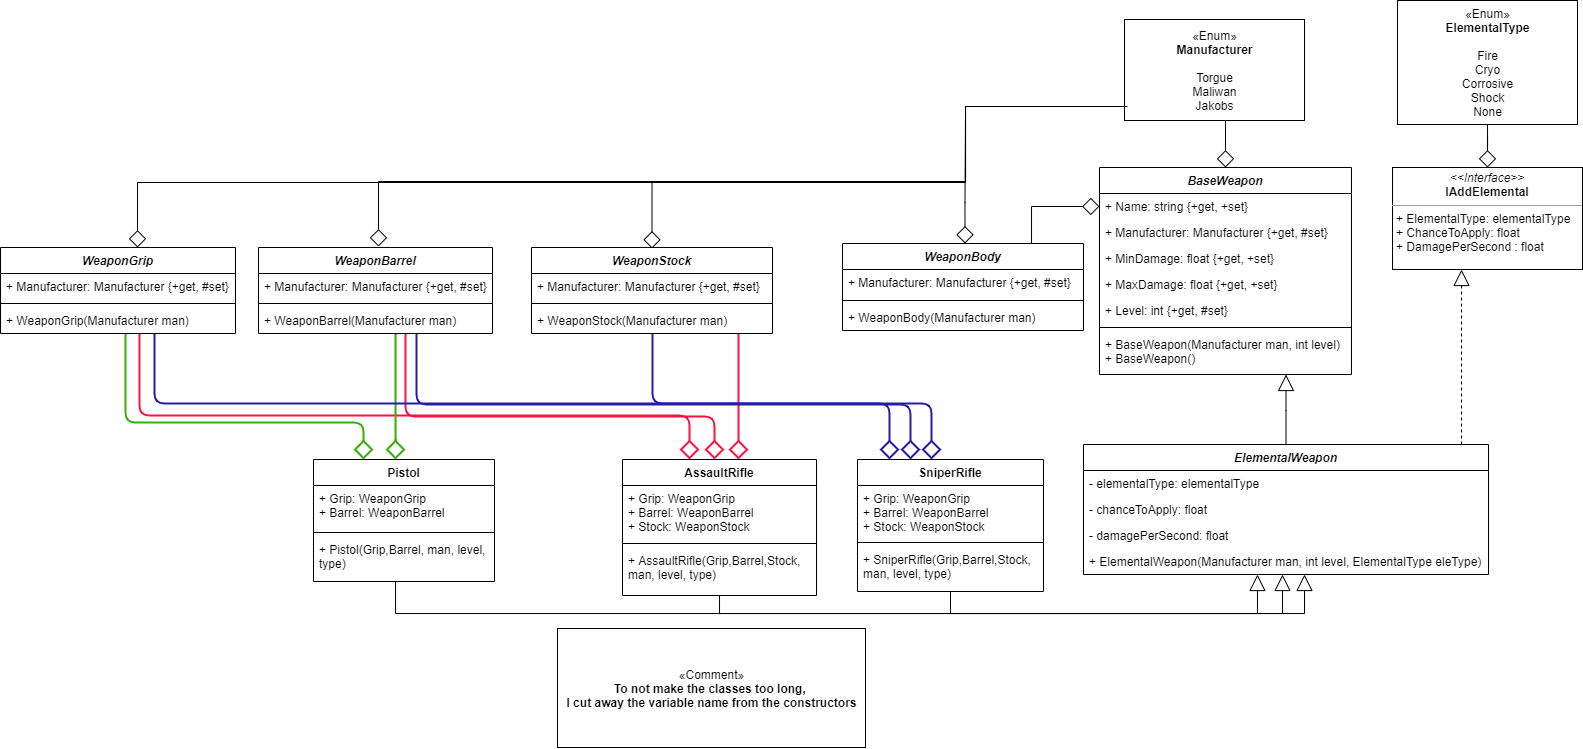
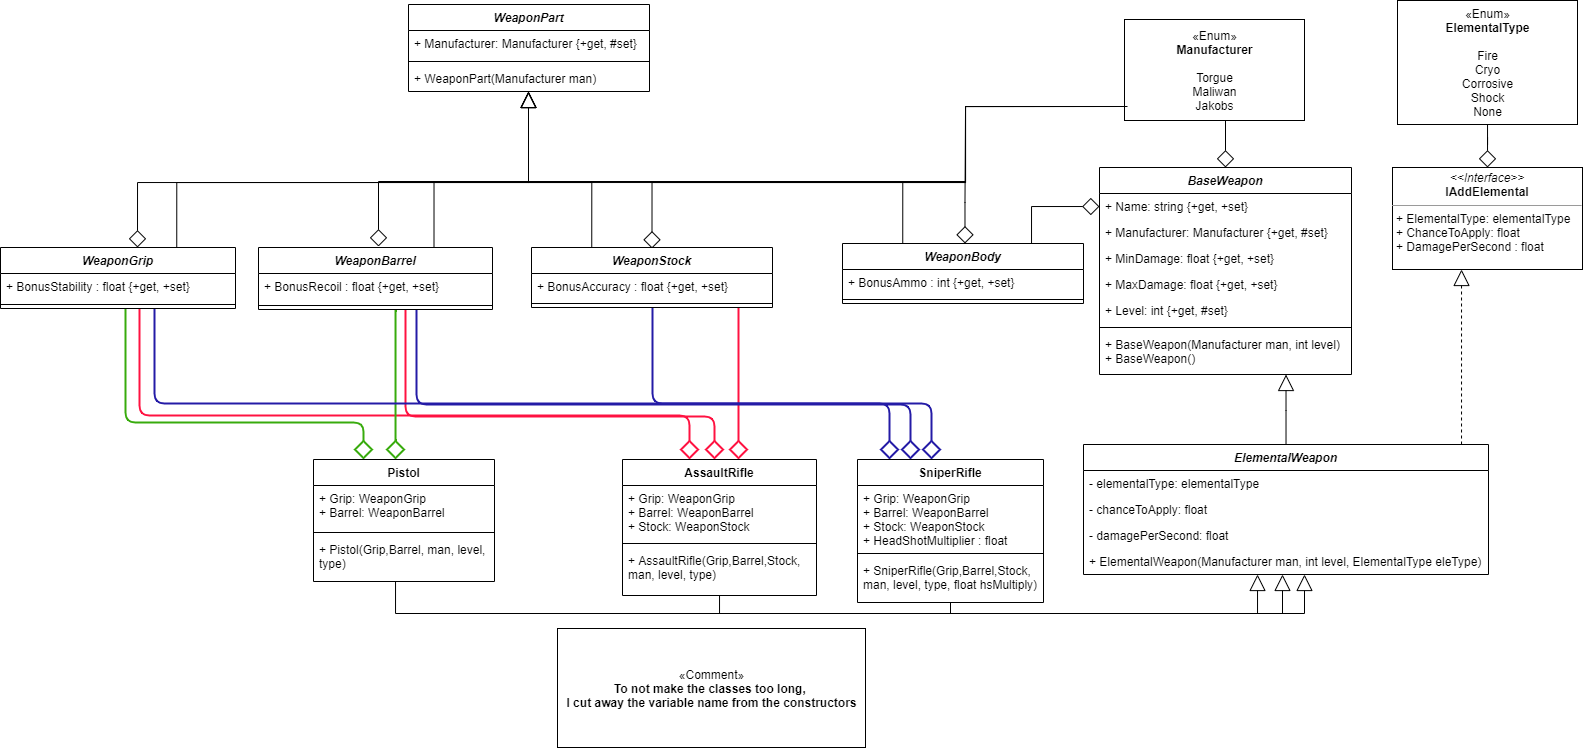
Fixed models being the same person

diff --git a/H3_WrittenReport_Example/WeaponManager.cs b/H3_WrittenReport_Example/WeaponManager.cs
@@ -13,21 +13,23 @@ namespace H3_WrittenReport_Example
         {
             using (WeaponContext context = new WeaponContext())
             {
-                foreach (BaseWeapon weapon in weapons)
-                {
-                    if (weapon is Pistol)
-                    {
-                        context.Pistols.Add((Pistol)weapon);
-                    }
-                    else if(weapon is SniperRifle)
-                    {
-                        context.SniperRifles.Add((SniperRifle)weapon);
-                    }
-                    else
-                    {
-                        context.AssaultRifles.Add((AssaultRifle)weapon);
-                    }
-                }
+                //foreach (BaseWeapon weapon in weapons)
+                //{
+                //    if (weapon is Pistol)
+                //    {
+                //        context.Pistols.Add((Pistol)weapon);
+                //    }
+                //    else if(weapon is SniperRifle)
+                //    {
+                //        context.SniperRifles.Add((SniperRifle)weapon);
+                //    }
+                //    else
+                //    {
+                //        context.AssaultRifles.Add((AssaultRifle)weapon);
+                //    }
+                //}
+
+                context.BaseWeapons.AddRange(weapons);
                 context.SaveChanges();
             }
         }

diff --git a/H3_WrittenReport_Example/SniperRifle.cs b/H3_WrittenReport_Example/SniperRifle.cs
@@ -12,16 +12,18 @@ namespace H3_WrittenReport_Example
         public WeaponGrip Grip { get; set; }
         public WeaponBarrel Barrel { get; set; }
         public WeaponStock Stock { get; set; }
+        public float HeadShotMultiplier { get; set; }
         public SniperRifle(Manufacturer man, int level, ElementalType type) : base(man, level, type)
         {
         }
 
         public SniperRifle(WeaponGrip grip, WeaponBarrel barrel, WeaponStock stock, 
-            Manufacturer man, int level, ElementalType type) : this(man,level,type)
+            Manufacturer man, int level, ElementalType type, float hsMultiply) : this(man,level,type)
         {
             Grip = grip;
             Barrel = barrel;
             Stock = stock;
+            HeadShotMultiplier = hsMultiply;
         }
     }
 }

diff --git a/H3_WrittenReport_Example/WeaponContext.cs b/H3_WrittenReport_Example/WeaponContext.cs
@@ -9,10 +9,10 @@ namespace H3_WrittenReport_Example
 {
     class WeaponContext : DbContext
     {
-        //public DbSet<BaseWeapon> BaseWeapons { get; set; }
-        public DbSet<Pistol> Pistols { get; set; }
-        public DbSet<SniperRifle> SniperRifles { get; set; }
-        public DbSet<AssaultRifle> AssaultRifles { get; set; }
+        public DbSet<BaseWeapon> BaseWeapons { get; set; }
+        //public DbSet<Pistol> Pistols { get; set; }
+        //public DbSet<SniperRifle> SniperRifles { get; set; }
+        //public DbSet<AssaultRifle> AssaultRifles { get; set; }
 
         public WeaponContext() : base()
         {

diff --git a/H3_WrittenReport_Example/WeaponParts/WeaponPart.cs b/H3_WrittenReport_Example/WeaponParts/WeaponPart.cs
@@ -6,11 +6,13 @@ using System.Threading.Tasks;
 
 namespace H3_WrittenReport_Example.WeaponParts
 {
-    public class WeaponBarrel : WeaponPart
+    public abstract class WeaponPart
     {
-        public float BonusRecoil { get; set; }
-        public WeaponBarrel(Manufacturer man) : base(man)
+        public Manufacturer Manufacturer { get; protected set; }
+
+        public WeaponPart(Manufacturer man)
         {
+            Manufacturer = man;
         }
     }
 }

diff --git a/H3_WrittenReport_Example/WeaponParts/WeaponStock.cs b/H3_WrittenReport_Example/WeaponParts/WeaponStock.cs
@@ -6,13 +6,11 @@ using System.Threading.Tasks;
 
 namespace H3_WrittenReport_Example.WeaponParts
 {
-    public class WeaponStock
+    public class WeaponStock : WeaponPart
     {
-        public Manufacturer Manufacturer { get; protected set; }
-
-        public WeaponStock(Manufacturer man)
+        public float BonusAccuracy { get; set; }
+        public WeaponStock(Manufacturer man) : base(man)
         {
-            Manufacturer = man;
         }
     }
 }

diff --git a/H3_WrittenReport_Example/WeaponParts/WeaponGrip.cs b/H3_WrittenReport_Example/WeaponParts/WeaponGrip.cs
@@ -6,13 +6,11 @@ using System.Threading.Tasks;
 
 namespace H3_WrittenReport_Example.WeaponParts
 {
-    public class WeaponGrip
+    public class WeaponGrip : WeaponPart
     {
-        public Manufacturer Manufacturer { get; protected set; }
-
-        public WeaponGrip(Manufacturer man)
+        public float BonusStability { get; set; }
+        public WeaponGrip(Manufacturer man) : base(man)
         {
-            Manufacturer = man;
         }
     }
 }

diff --git a/H3_WrittenReport_Example/WeaponParts/WeaponBody.cs b/H3_WrittenReport_Example/WeaponParts/WeaponBody.cs
@@ -6,13 +6,11 @@ using System.Threading.Tasks;
 
 namespace H3_WrittenReport_Example.WeaponParts
 {
-    public class WeaponBody
+    public class WeaponBody : WeaponPart
     {
-        public Manufacturer Manufacturer { get; protected set; }
-
-        public WeaponBody(Manufacturer man)
+        public int BonusAmmo { get; set; }
+        public WeaponBody(Manufacturer man) : base(man)
         {
-            Manufacturer = man;
         }
     }
 }
